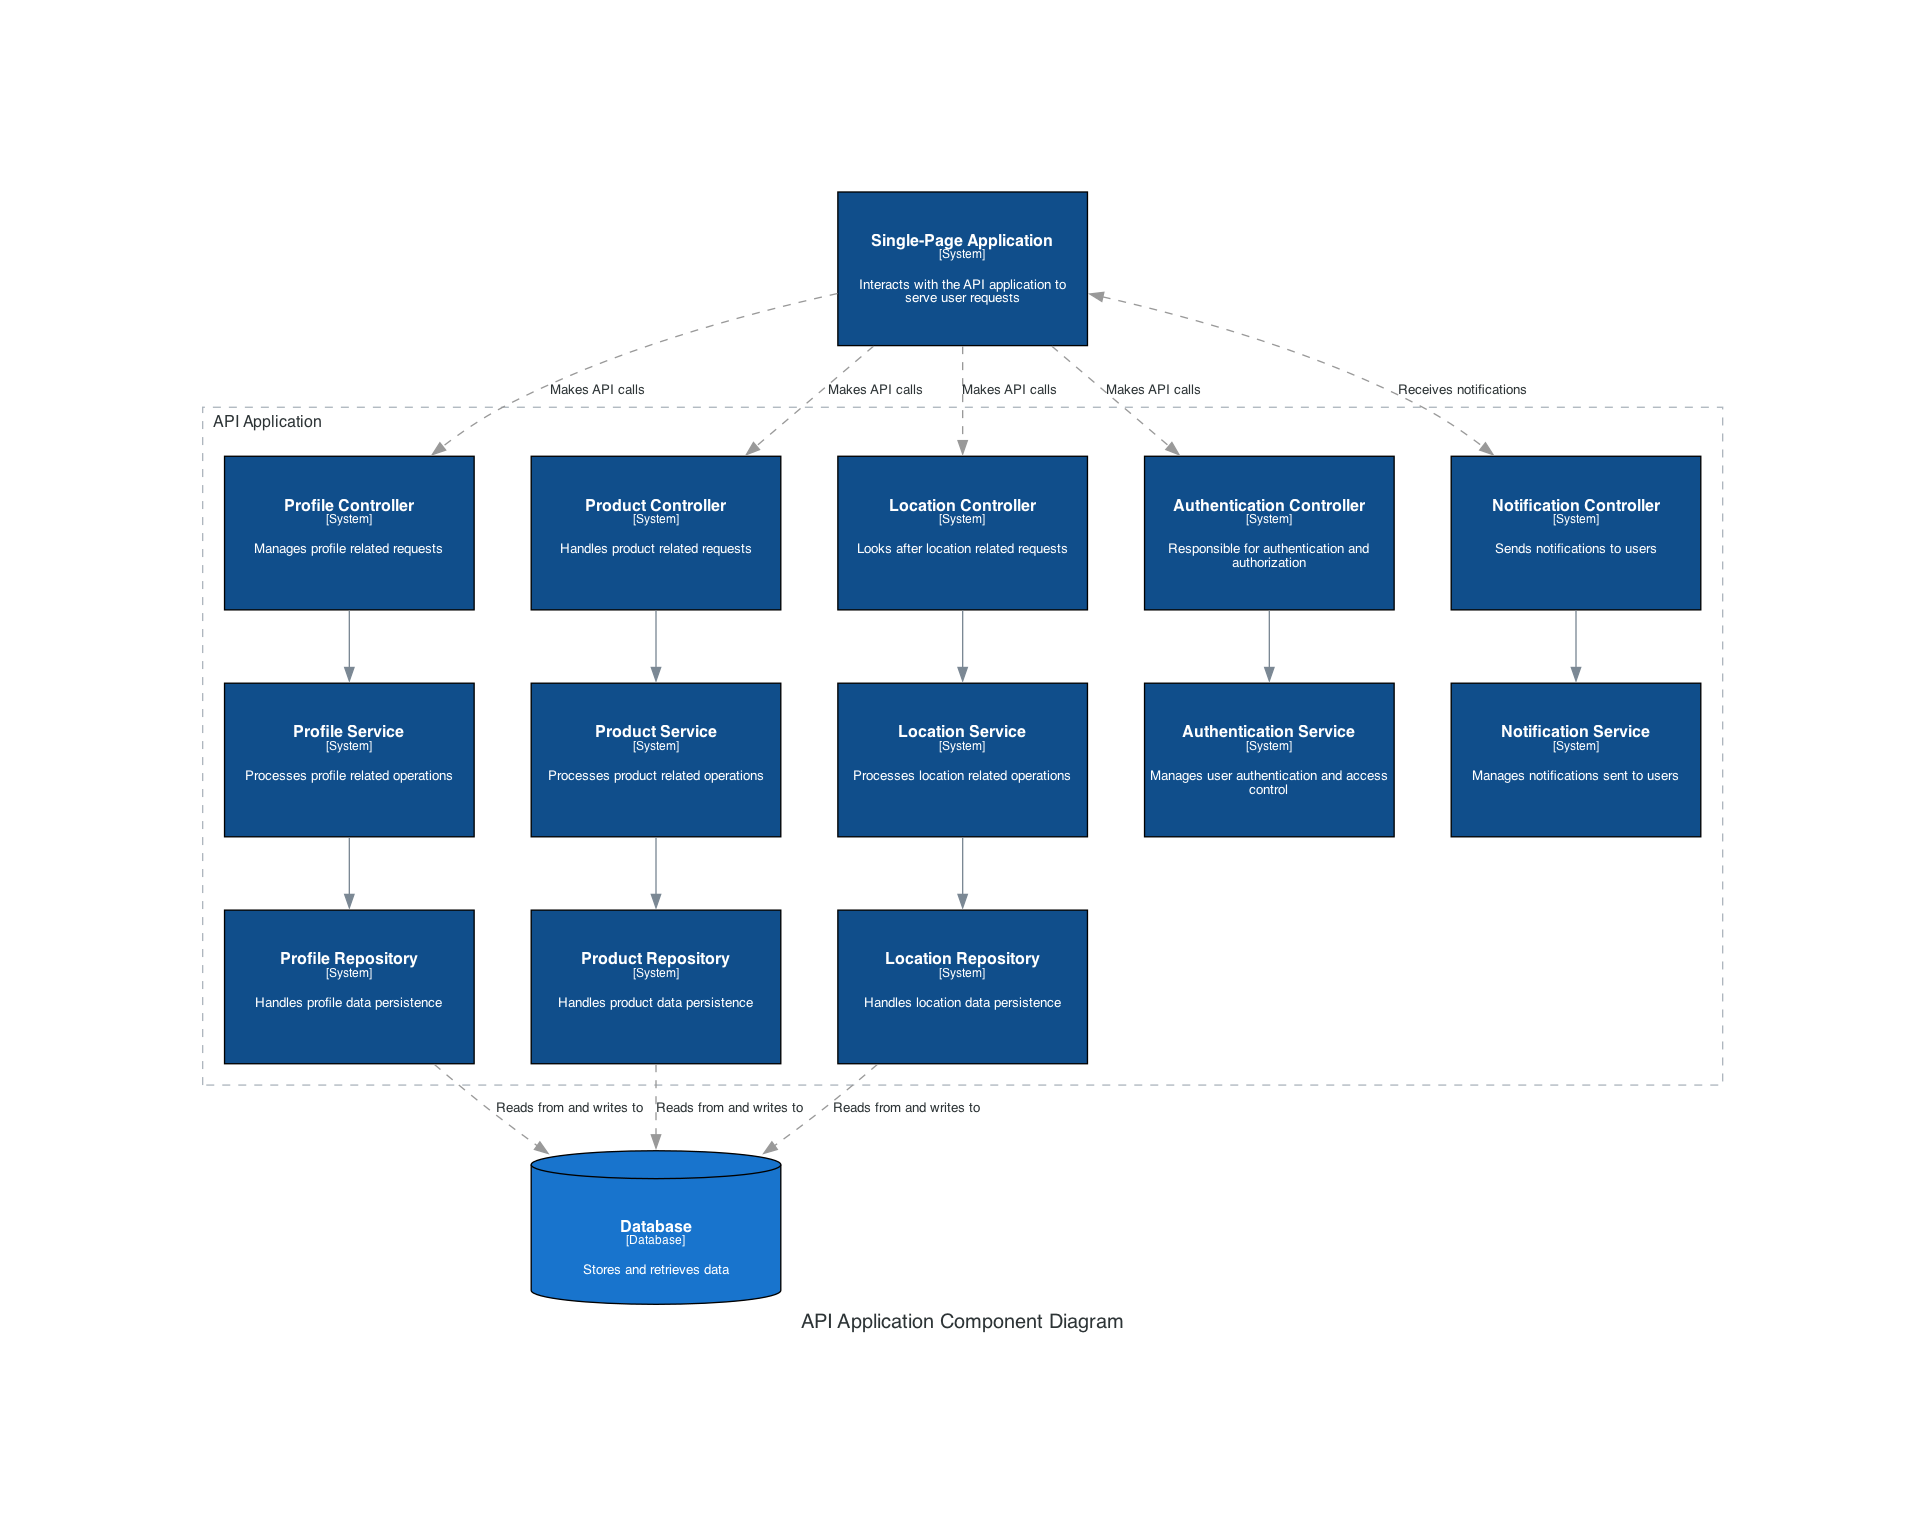
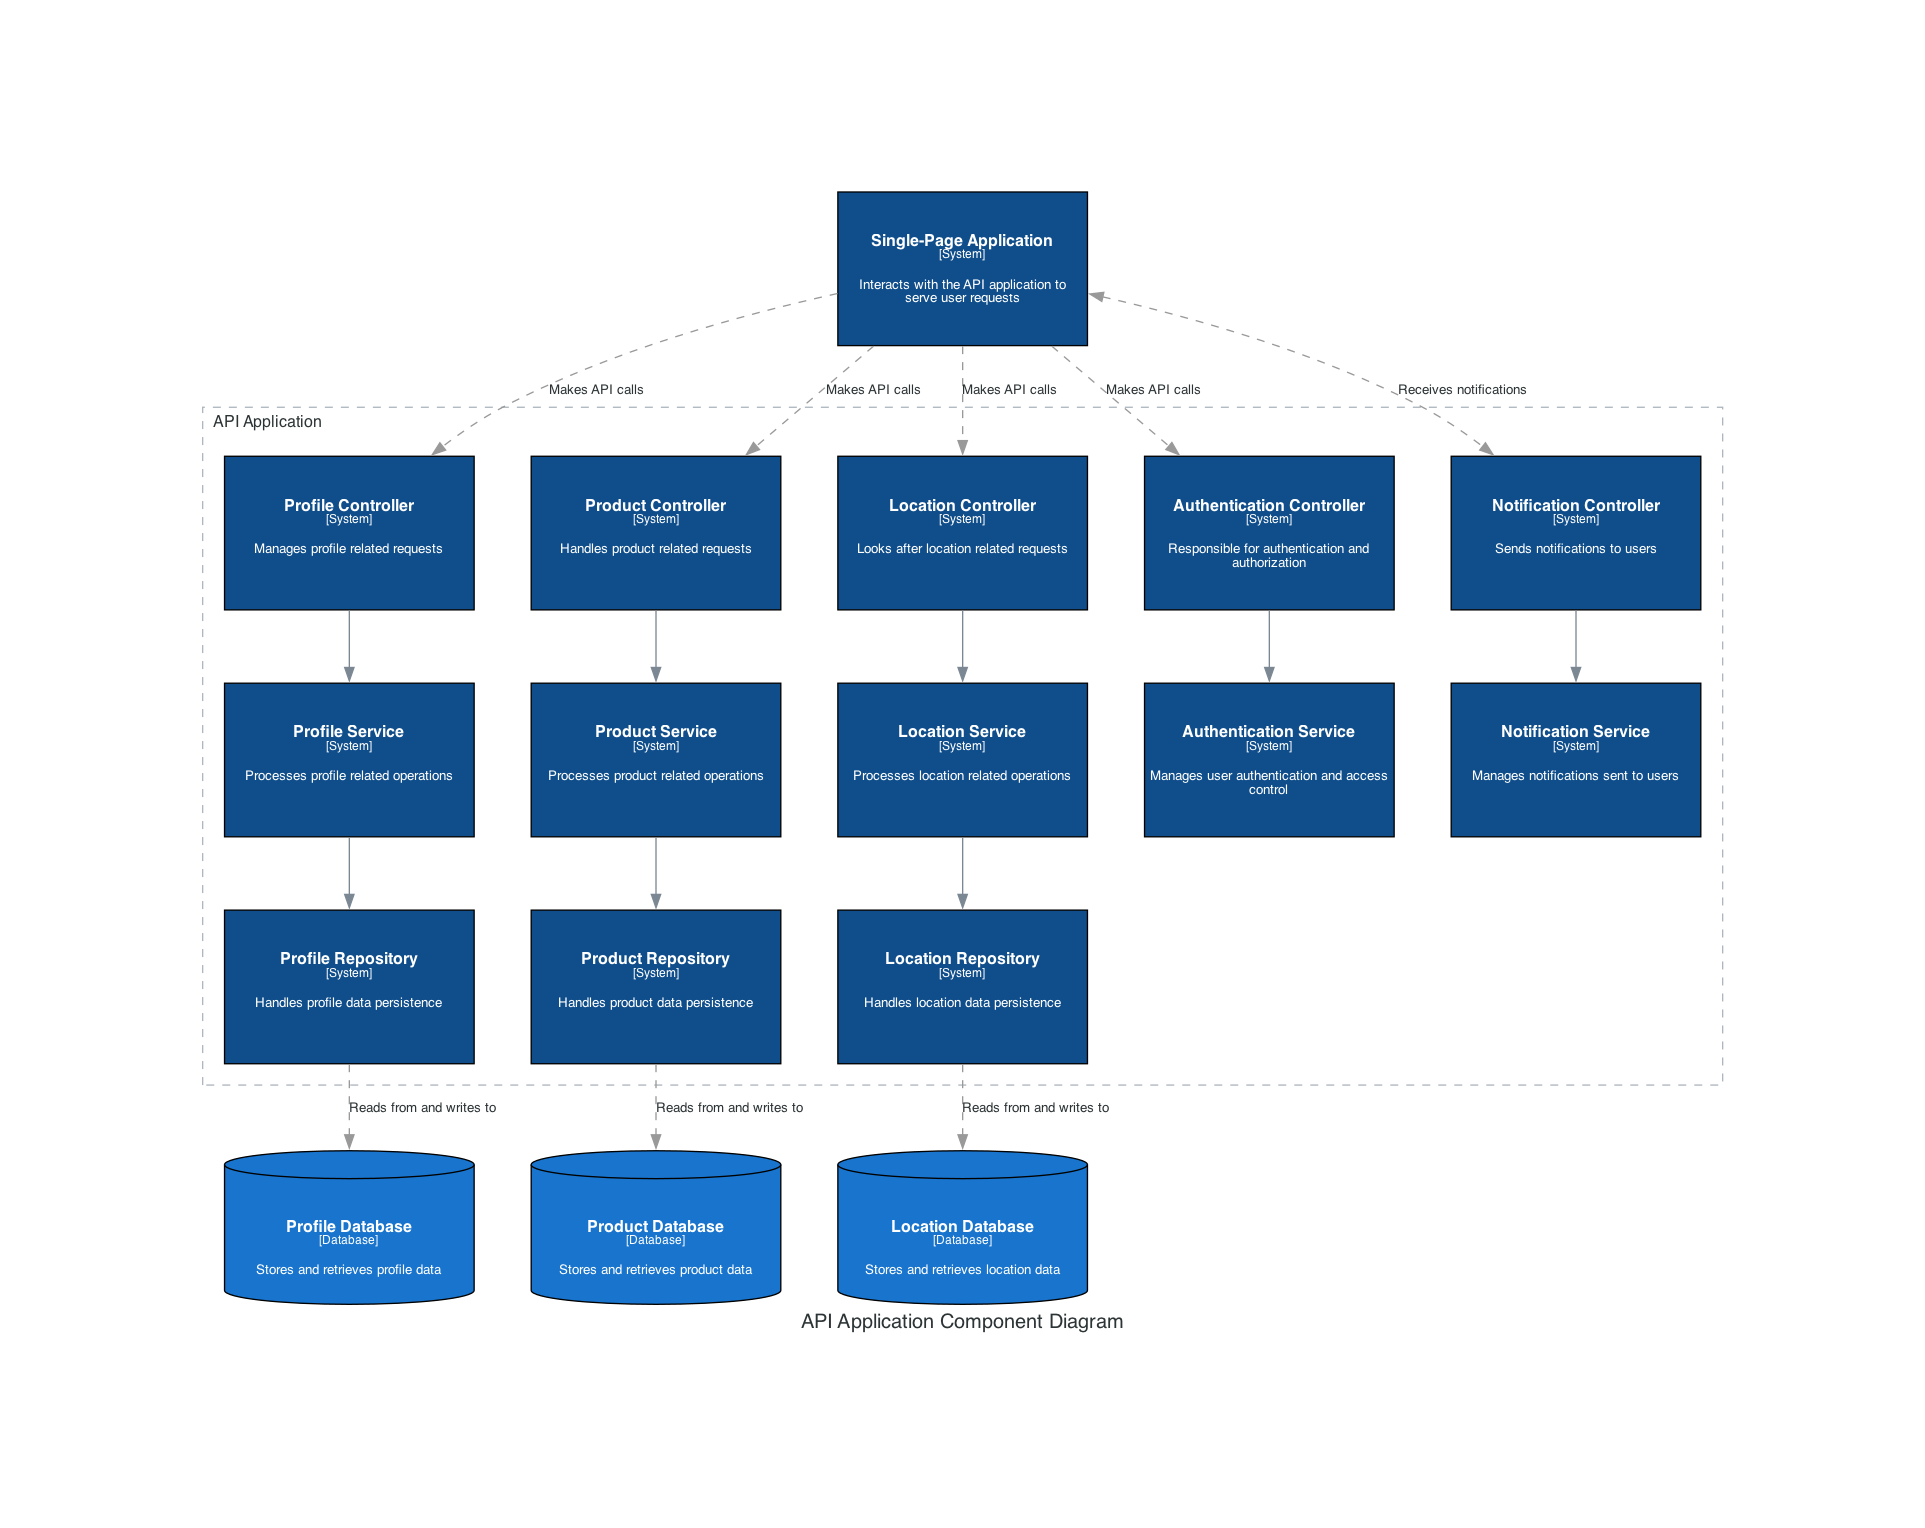
Splitting database from component and container diagrams

diff --git a/GW/container.py b/GW/container.py
@@ -41,10 +41,22 @@ with Diagram("Container diagram for Product and Location Management System", dir
             description="Sends notifications to the users.",
         )
 
-        database = Database(
-            name="Database",
+        profile_db = Database(
+            name="Profile Database", 
+            technology="Cloud SQL", 
+            description="Stores profile information"
+        )
+
+        product_db = Database(
+            name="Product Database", 
+            technology="Cloud SQL", 
+            description="Stores product information"
+        )
+
+        location_db = Database(
+            name="Location Database",
             technology="Cloud SQL",
-            description="Stores Product and Location information",
+            description="Stores location information"
         )
 
         search = Container(
@@ -87,7 +99,9 @@ with Diagram("Container diagram for Product and Location Management System", dir
     customer >> Relationship("Views products and locations using") >> [spa]
     webapp >> Relationship("Delivers to the customer's web browser") >> spa
     spa >> Relationship("Make API calls to REST") >> api
-    api >> Relationship("Reads from and writes to") >> database
+    api >> Relationship("Reads from and writes to") >> profile_db
+    api >> Relationship("Reads from and writes to") >> product_db
+    api >> Relationship("Reads from and writes to") >> location_db
     api >> Relationship("Handles users authentication and role-based access control") >> auth
     api >> Relationship("Sends notifications to the users") >> notif
     api >> Relationship("Imports/exports data") >> data_import_export
@@ -96,6 +110,12 @@ with Diagram("Container diagram for Product and Location Management System", dir
     api >> Relationship("Makes API calls to [JSON/HTTPS]") >> erp
     api >> Relationship("Makes API calls to [JSON/HTTPS]") >> crm
     customer << Relationship("Sends notifications to the users") << notif
-    database << Relationship("Reads from") << search
-    database << Relationship("Reads/Writes from") << data_import_export
-    database << Relationship("Reads from") << recovery
+    profile_db << Relationship("Reads from") << search
+    profile_db << Relationship("Reads/Writes from") << data_import_export
+    profile_db << Relationship("Reads from") << recovery
+    product_db << Relationship("Reads from") << search
+    product_db << Relationship("Reads/Writes from") << data_import_export
+    product_db << Relationship("Reads from") << recovery
+    location_db << Relationship("Reads from") << search
+    location_db << Relationship("Reads/Writes from") << data_import_export
+    location_db << Relationship("Reads from") << recovery

diff --git a/GW/component.py b/GW/component.py
@@ -38,7 +38,10 @@ with Diagram("API Application Component Diagram", direction="TB", graph_attr=gra
     spa >> Relationship("Makes API calls") >> auth_controller
     spa >> Relationship("Receives notifications") << notif_controller
 
-    db = Database("Database", description="Stores and retrieves data")
-    profile_repository >> Relationship("Reads from and writes to") >> db
-    product_repository >> Relationship("Reads from and writes to") >> db
-    location_repository >> Relationship("Reads from and writes to") >> db
+    profile_db = Database("Profile Database", description="Stores and retrieves profile data")
+    product_db = Database("Product Database", description="Stores and retrieves product data")
+    location_db = Database("Location Database", description="Stores and retrieves location data")
+    
+    profile_repository >> Relationship("Reads from and writes to") >> profile_db
+    product_repository >> Relationship("Reads from and writes to") >> product_db
+    location_repository >> Relationship("Reads from and writes to") >> location_db
